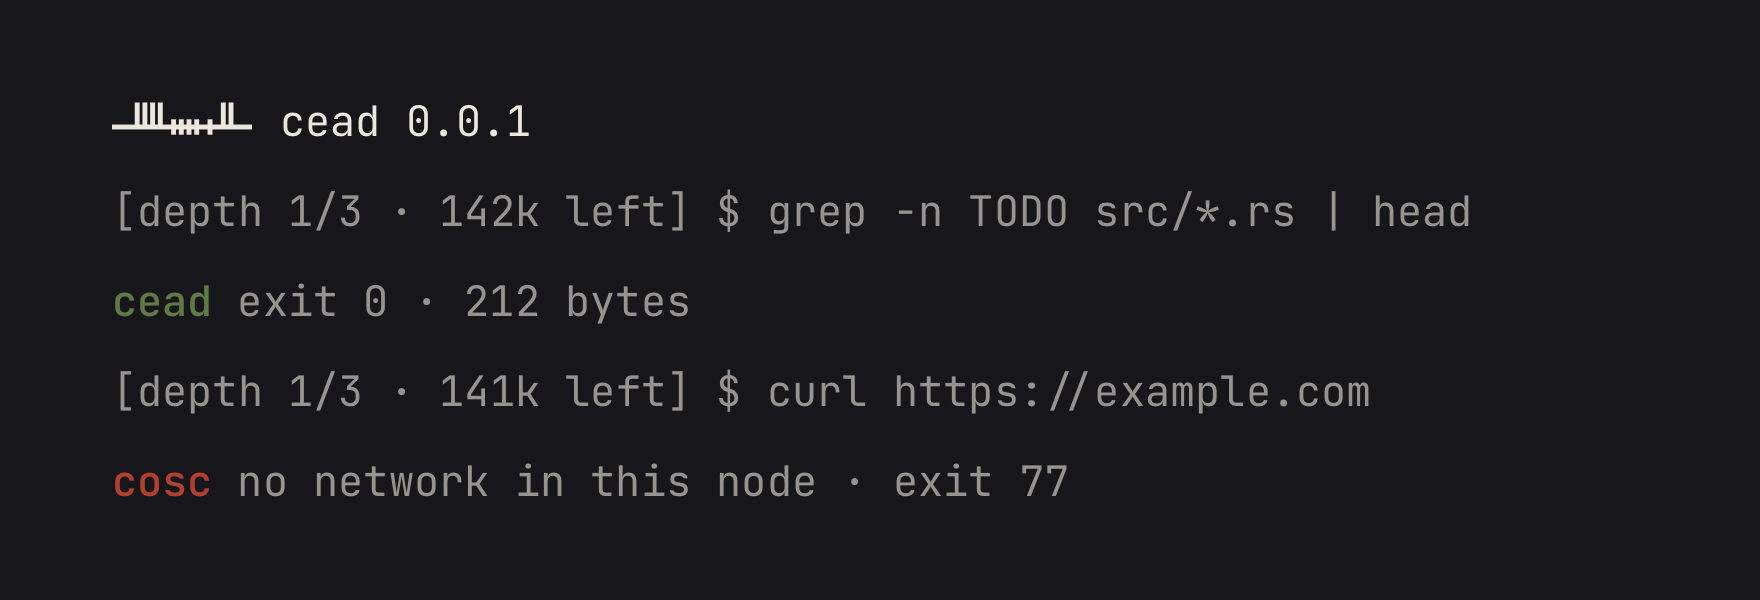
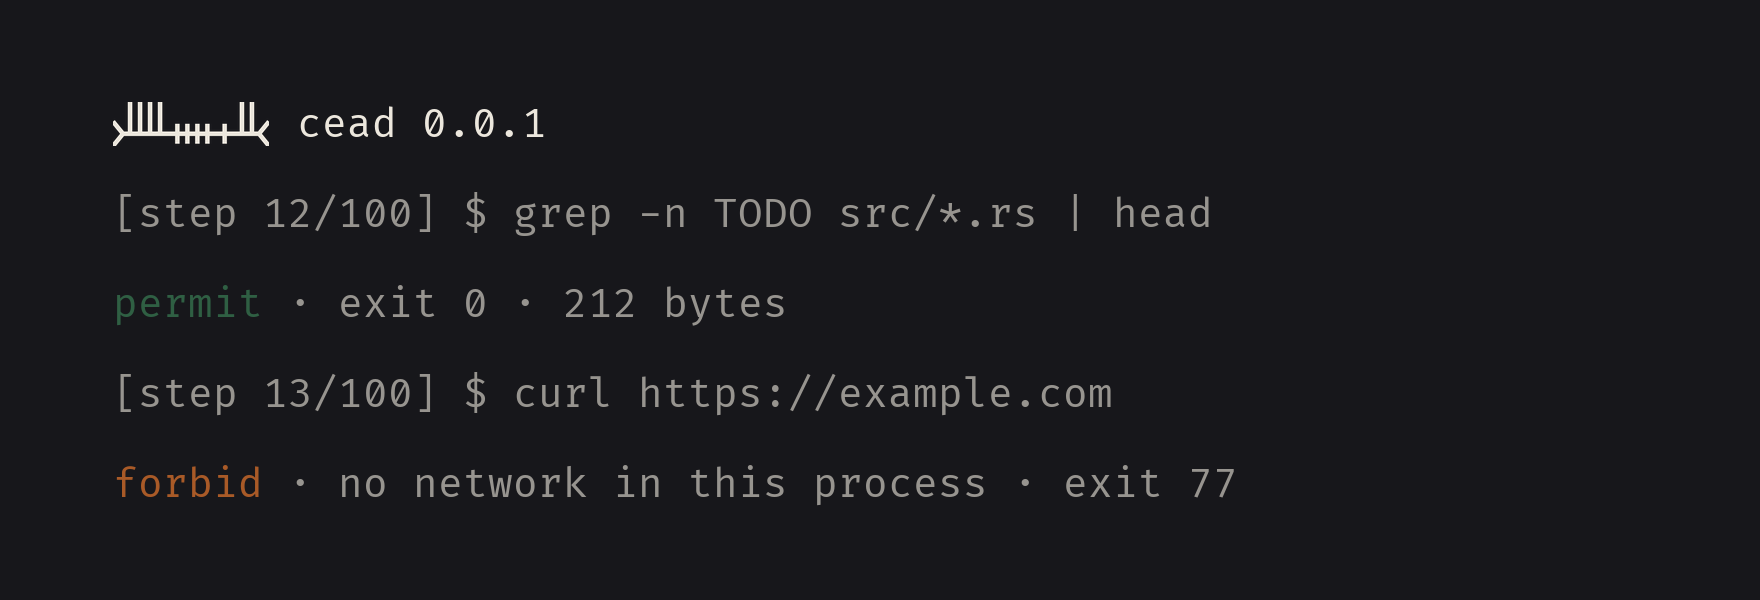
Refresh cead's assets: Irish accents, feathered Ogham mark, SVG lockups (#3)
## What this PR does

A fresh asset set that matches cead's Irish name and Ogham mark.

- **Accents:** a deep forest green and a burnt orange, the tricolour's
hues kept muted and matte.

  | Role | Before | After | OKLCH (L, C, h) |
  |---|---|---|---|
  | lichen (permit) | `#5f7a45` | `#2f5f43` | 0.45, 0.07, 155 |
  | iron (forbid) | `#b3402f` | `#a95a27` | 0.55, 0.12, 50 |

- **The mark:** Ogham c, e, a, d on its original grid (20 px strokes, 44
px pitch), the stem trimmed to the lettering and closed with feather
marks (᚛ ᚜) as in manuscript Ogham; the green *a* stroke runs unbroken
across the stem. Groups keep Ogham's even rhythm rather than sitting
over their Latin letters.
- **Lockups are SVG** and are their own source: the mark is rects and
lines, the letters are traced from the previous raster.
- `lockup.svg`, `lockup-light.svg`: the README's stacked lockup for dark
and light themes, switched with `<picture>`. Before, the stone letters
vanished on GitHub's light theme.
- `lockup-source.svg`: stacked, stone on slate, no accents, for places
that cannot render color (a terminal).
  - `lockup-source-color.svg`: the same with accents.
- **`palette.png`, `terminal-mockup.png`** regenerated in Fira Code with
current vocabulary: verdicts `permit`/`forbid` (CODE.md), the shell
prompt `[step 12/100]` (#8), "process" for "node"; the header mark is
stone-only.
- **Caption:** the name's gloss becomes a centered caption under the
[…]

diff --git a/README.md b/README.md
@@ -1,10 +1,13 @@
 <p align="center">
-  <img src="assets/lockup.png" width="220" alt="cead">
+  <picture>
+    <source media="(prefers-color-scheme: light)" srcset="assets/lockup-light.svg">
+    <img src="assets/lockup.svg" width="220" alt="cead">
+  </picture><br>
+  <em>cead</em> (Irish: permission; "kyad")
 </p>
 
 cead is an agent harness built as a microVM.
 The model gets a Linux machine of its own and a shell to drive it: the kernel permits each command, and eBPF witnesses it.
-*cead* (Irish: permission; "kyad").
 
 ## What cead is
 
